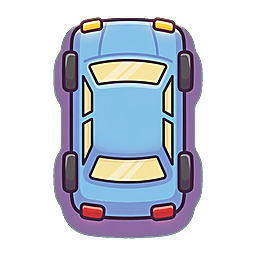
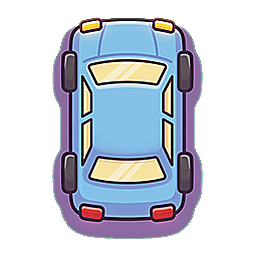
Fix: biler vender i køreretning, ingen firkant-padding
Sprite-rotation +90° (næse op → front langs vejen).
Strammet bil-sprites uden tom firkant omkring.

diff --git a/js/vehicle.js b/js/vehicle.js
@@ -541,6 +541,7 @@ export class Vehicle {
   draw(ctx, dpr) {
     ctx.save();
     ctx.translate(this.x, this.y);
+    // this.angle: 0 = kører til højre (+x). Procedural art er tegnet med front mod +x.
     ctx.rotate(this.angle);
 
     const s = this.size * dpr;
@@ -550,17 +551,27 @@ export class Vehicle {
     const isVan = this.classId === 'van';
     const rank = this.upgradeRank || 0;
 
-    // Shadow
-    ctx.fillStyle = 'rgba(0,0,0,0.18)';
+    // Soft ground shadow (under bilen, ikke en firkant)
+    ctx.fillStyle = 'rgba(20, 16, 12, 0.22)';
     ctx.beginPath();
-    ctx.ellipse(1.5 * dpr, 2.5 * dpr, s * (isBus || isHeavy ? 1.7 : 1.45), s * (isHeavy || isBus ? 0.95 : 0.8), 0, 0, Math.PI * 2);
+    ctx.ellipse(
+      1.2 * dpr,
+      2.2 * dpr,
+      s * (isBus || isHeavy ? 1.55 : 1.35),
+      s * (isHeavy || isBus ? 0.72 : 0.58),
+      0, 0, Math.PI * 2
+    );
     ctx.fill();
 
     const sprite = getVehicleSprite(this.classId, this.kind);
     if (sprite && sprite.complete && sprite.naturalWidth > 0) {
-      // Ens scale-familie (top-down packs) – længere køretøjer lidt større
-      const sc = (isBus ? 2.95 : isHeavy ? 2.8 : isVan ? 2.55 : isFast ? 2.35 : 2.5) * s;
+      // Top-down sprites er tegnet med næse OPAD (−y).
+      // Vej-vinkel 0 er +x, så +90° matcher sprite → køreretning.
+      const sc = (isBus ? 2.75 : isHeavy ? 2.6 : isVan ? 2.4 : isFast ? 2.2 : 2.35) * s;
+      ctx.save();
+      ctx.rotate(Math.PI / 2);
       ctx.drawImage(sprite, -sc / 2, -sc / 2, sc, sc);
+      ctx.restore();
     } else if (this.kind === 'truck') {
       this.drawTruck(ctx, s, dpr, isHeavy);
     } else {
